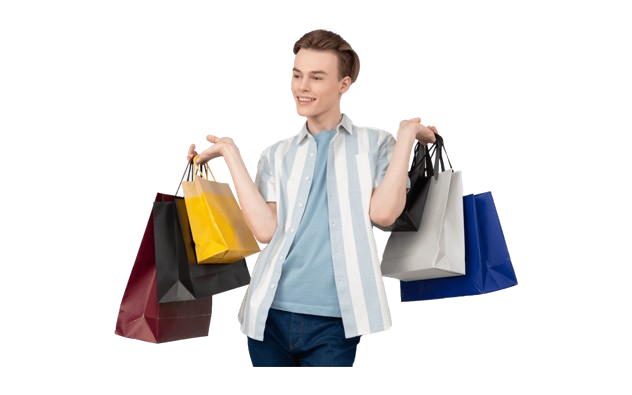
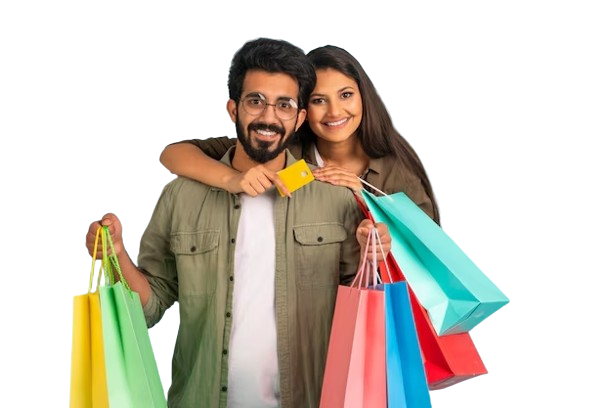
changes added

diff --git a/src/components/Footer/Footer.jsx b/src/components/Footer/Footer.jsx
@@ -1,102 +1,6 @@
-// import React from 'react'
-// import  Banner from "../../assets/website/footer-pattern.jpg"
-// import footerLogo from '../../assets/logo.png'
-// import { FaFacebook, FaInstagram, FaLinkedin, FaLocationArrow } from 'react-icons/fa6';
-// import { FaMobileAlt } from 'react-icons/fa';
-
-// const BannerImg = {
-//     backgroundImage: `url(${Banner})`,
-//     backgroundPosition: "bottom",
-//     backgroundRepeat: "no-repeat",
-//     backgroundSize: "cover",
-//     height:"100%",
-//     width: "100%",
-// };
-
-// const FooterLinks = [
-//     {
-//         title: "Home",
-//         link: "/#",
-//     },
-//     {
-//         title: "About",
-//         link: "/#about",
-//     },
-//     {
-//         title: "Contact",
-//         link: "/#contact",
-//     },
-//     {
-//         title: "Blog",
-//         link: "/#blog",
-//     },
-// ]
-
-
-// const Footer = () => {
-//   return (
-//     <div className='text-white mb-20'>
-//         <div className='container'>
-//             <div className='grid md:grid-cols-3 pb-44 pt-5'>
-//                 {/* company details */}
-//                 <div className='py-8 px-4'>
-//                     <h1 className='sm:text-3xl text-xl font-bold sm:text-left text-justify mb-3 flex items-center gap-3'>
-//                         <img src={footerLogo} alt='' className='max-w-[50px]'/>
-//                         ShopEase
-//                     </h1>
-//                     <p>Lorem ipsum, dolor sit amet consectetur adipisicing elit. Placeat, pariatur.</p>
-//                 </div>
-//                 {/* Footer links */}
-//                 <div className='grid grid-cols-2 sm:grid-cols-3 col-span-2 md:pl-10'>
-//                     <div>
-//                         <div className='py-8 px-4'>
-//                             <h1 className='sm:text-xl text-xl font-bold sm:text-left text-justify mb-3'>Important Links</h1>
-//                             <ul className='flex flex-col gap-3'>
-//                                 {FooterLinks.map((data) => (
-//                                     <li className='cursor-pointer hover:text-primary hover:translate-x-1 duration-300 text-gray-200' key={link.title}>
-//                                         <span>{link.title}</span>
-//                                     </li>
-//                                 ))}
-//                             </ul>
-//                         </div>
-//                     </div>
-
-//                     {/* social links */}
-//                     <div>
-//                         <div className='flex items-center gap-3 mt-6'>
-//                             <a href='#'>
-//                                 <FaInstagram className='text-3xl'/>
-//                             </a>
-//                             <a href='#'>
-//                                 <FaFacebook className='text-3xl'/>
-//                             </a>
-//                             <a href='#'>
-//                                 <FaLinkedin className='text-3xl'/>
-//                             </a>
-//                         </div>
-//                         <div className='mt-6'>
-//                             <div className='flex items-center gap-3'>
-//                                 <FaLocationArrow/>
-//                                 <p>Lorem, ipsum dolor.</p>
-//                             </div>
-//                             <div className='flex items-center gap-3'>
-//                                 <FaMobileAlt/>
-//                                 <p>+91 123456789</p>
-//                             </div>
-//                         </div>
-//                     </div>
-//                 </div>
-//             </div>
-//         </div>
-//     </div>
-//   )
-// }
-
-// export default Footer
-
 import React from "react";
 import footerLogo from "../../assets/logo.png";
-import Banner from "../../assets/website/footer-pattern.jpg";
+import Banner from "../../assets/website/purple-pattern.jpg";
 import {
   FaFacebook,
   FaInstagram,
@@ -133,11 +37,30 @@ const FooterLinks = [
   },
 ];
 
+const SupportLinks = [
+  {
+    title: "24/7 support",
+    link: "/#support",
+  },
+  {
+    title: "ShopEase Help Center",
+    link: "/#help",
+  },
+  {
+    title: "Terms of Service",
+    link: "/#terms",
+  },
+  {
+    title: "Privacy Policy",
+    link: "/#privacy",
+  },
+];
+
 const Footer = () => {
   return (
     <div style={BannerImg} className="text-white">
       <div className="container">
-        <div data-aos="zoom-in" className="grid md:grid-cols-3 pb-44 pt-5">
+        <div data-aos="zoom-in" className="grid md:grid-cols-3 pb-35 pt-5">
           {/* company details */}
           <div className="py-8 px-4">
             <h1 className="sm:text-3xl text-xl font-bold sm:text-left text-justify mb-3 flex items-center gap-3">
@@ -172,10 +95,10 @@ const Footer = () => {
             <div>
               <div className="py-8 px-4">
                 <h1 className="sm:text-xl text-xl font-bold sm:text-left text-justify mb-3">
-                  Links
+                  Support
                 </h1>
                 <ul className="flex flex-col gap-3">
-                  {FooterLinks.map((link) => (
+                  {SupportLinks.map((link) => (
                     <li
                       className="cursor-pointer hover:text-primary hover:translate-x-1 duration-300 text-gray-200"
                       key={link.title}
@@ -204,11 +127,11 @@ const Footer = () => {
               <div className="mt-6">
                 <div className="flex items-center gap-3">
                   <FaLocationArrow />
-                  <p>Noida, Uttar Pradesh</p>
+                  <p>Matara, Sri Lanka</p>
                 </div>
                 <div className="flex items-center gap-3 mt-3">
                   <FaMobileAlt />
-                  <p>+91 123456789</p>
+                  <p>+94 123456789</p>
                 </div>
               </div>
             </div>

diff --git a/src/components/Testimonials/Testimonials.jsx b/src/components/Testimonials/Testimonials.jsx
@@ -4,19 +4,19 @@ import Slider from "react-slick"
 const TestimonialData = [
     {
         id: 1,
-        name: "Victor",
+        name: "John",
         text: "Lorem ipsum dolor sit amet consectetur, adipisicing elit. Ex consequatur exercitationem sed dicta nam eligendi", 
         img: "https://picsum.photos/101/101",
     },
     {
         id: 2,
-        name: "Satya Nadella",
+        name: "Richard",
         text: "Lorem ipsum dolor sit amet consectetur, adipisicing elit. Ex consequatur exercitationem sed dicta nam eligendi", 
         img: "https://picsum.photos/102/102",
     },
     {
         id: 3,
-        name: "Virat Kohil",
+        name: "Krishan",
         text: "Lorem ipsum dolor sit amet consectetur, adipisicing elit. Ex consequatur exercitationem sed dicta nam eligendi", 
         img: "https://picsum.photos/103/103",
     },

diff --git a/tailwind.config.js b/tailwind.config.js
@@ -8,8 +8,13 @@ export default {
   theme: {
     extend: {
       colors: {
-        primary: "#fea928",
-        secondary: "#ed8900",
+        // primary: "#fea928",
+        // secondary: "#ed8900",
+        // primary: "#a55eea",
+        // secondary: "#8854d0",
+        primary: "#b148d2",
+        secondary: "#9614d0",
+        
       },
       container: {
         center: true,

diff --git a/src/App.jsx b/src/App.jsx
@@ -35,7 +35,7 @@ const App = () => {
       <TopProducts handleOrderPopup={handleOrderPopup}/>
       <Banner/>
       <Subscribe/>
-      <Products/>
+      {/* <Products/> */}
       <Testimonials/>
       <Footer/>
       <Popup orderPopup={orderPopup} setOrderPopup={setOrderPopup}/>

diff --git a/src/components/Banner/Banner.jsx b/src/components/Banner/Banner.jsx
@@ -1,5 +1,5 @@
 import React from 'react'
-import BannerImg from "../../assets/hero/woman.png"
+import BannerImg from "../../assets/hero/shopping.png"
 import {GrSecure} from "react-icons/gr"
 import {IoFastFood} from "react-icons/io5"
 import {GiFoodTruck} from "react-icons/gi"

diff --git a/src/components/Hero/Hero.jsx b/src/components/Hero/Hero.jsx
@@ -1,5 +1,5 @@
 import React from 'react'
-import Image1 from "../../assets/hero/shopping.png"
+import Image1 from "../../assets/hero/men.png"
 import Image2 from "../../assets/hero/woman.png"
 import Image3 from "../../assets/hero/sale.png"
 import Slider from "react-slick"

diff --git a/src/components/Subscribe/Subscribe.jsx b/src/components/Subscribe/Subscribe.jsx
@@ -1,5 +1,5 @@
 import React from 'react'
-import Banner from '../../assets/website/orange-pattern.jpg'
+import Banner from '../../assets/website/purple-pattern.jpg'
 
 const BannerImg = {
     backgroundImage: `url(${Banner})`,
